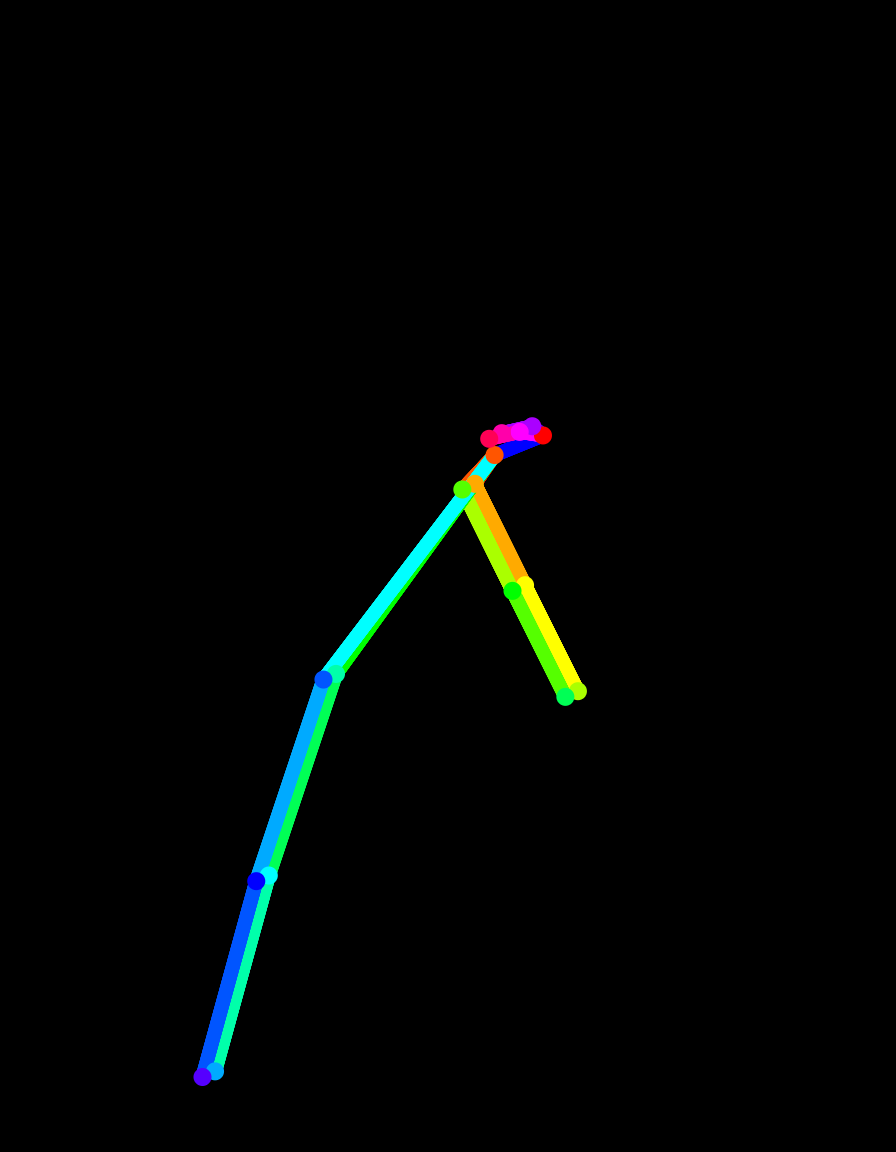
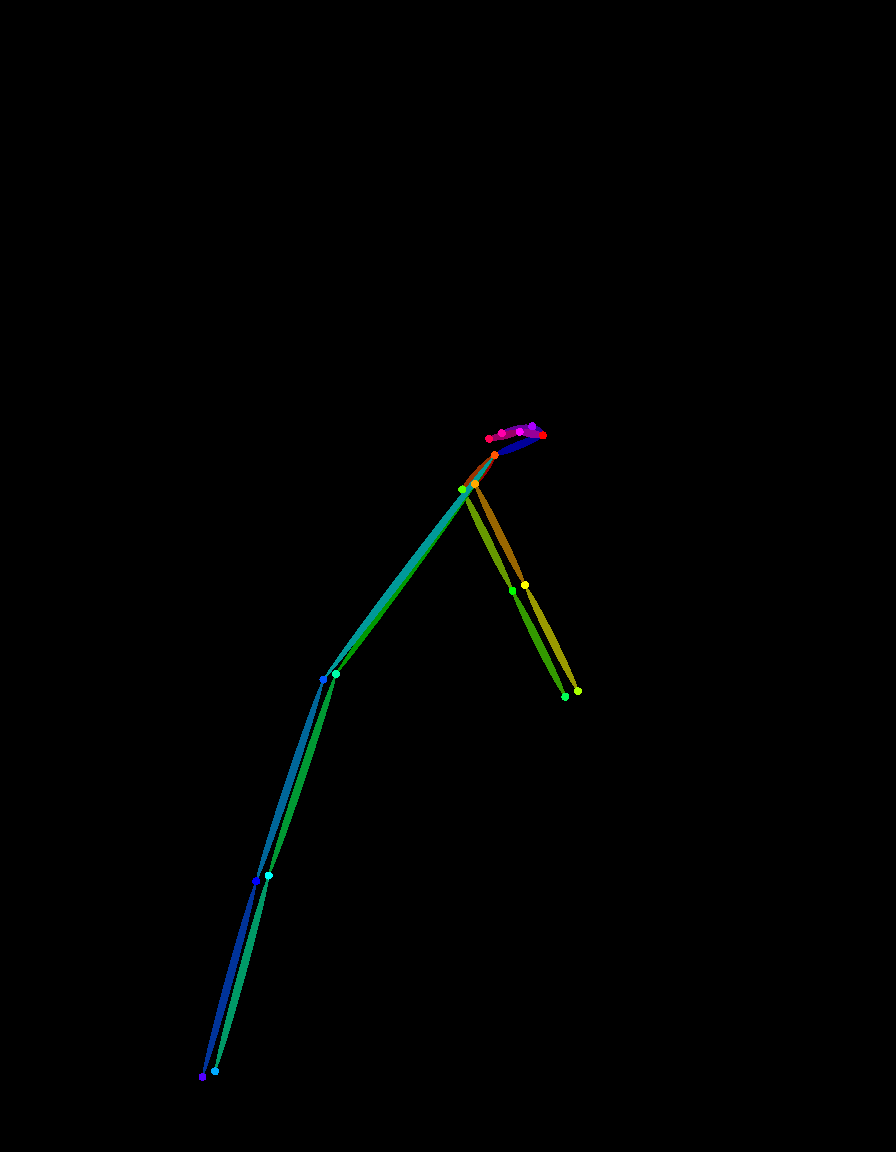
fix(poser): gjør skjelett-rendereren tro mot draw_bodypose
Autoresearch sammenlignet rendereren vår mot kanonisk draw_bodypose. Jeg
verifiserte mot kilden på kitor
(comfyui_controlnet_aux/src/custom_controlnet_aux/dwpose/util.py) — alle fire
avvikene stemte:

  Lemmebredde     stickwidth = 4 (8 px)   vi hadde 14 px    75 % bredere
  Lemmefarge      int(c * 0.6)            vi hadde 100 %    67 % lysere
  Leddradius      4                       vi hadde 9        2,25x
  Kanter          fillConvexPoly, aliasert  vi hadde AA     avvek

Verdiene var funnet på fordi de så ryddige ut. Kommentaren om at kantutjevning
gir «et stabilere signal» var ren spekulasjon — treningsdataene er aliaserte.

Konsekvensen er at de tre GPU-kjøringene i dag ikke kan tolkes: vi vet ikke om
vi målte OpenPose eller vår egen renderer. Konklusjonen «orientering er umulig
med skjeletter» kan være for tidlig.

Lemmer tegnes nå som roterte ELLIPSER, ikke kapsler med runde ender. Det er
ikke kosmetikk: ellipsen smalner mot endene, og et sterkt forkortet lem
degenererer nesten helt. Det gjengis bevisst — ControlNet er trent på
DWPose-utdata med samme egenskap, og armhevingens overarm er nettopp et slikt
lem.

stickwidth og leddradius er argumenter med kildens verdier som standard, ikke
konstanter.

Changed region(s): [[0.2188, 0.3438, 0.6562, 0.9375]]

diff --git a/scripts/__tests__/poseSkeleton.test.ts b/scripts/__tests__/poseSkeleton.test.ts
@@ -117,3 +117,71 @@ describe('encodePng', () => {
     expect(a.equals(b)).toBe(true);
   });
 });
+
+describe('Renderen er tro mot draw_bodypose', () => {
+  // Verifisert mot kilden på kitor:
+  // comfyui_controlnet_aux/src/custom_controlnet_aux/dwpose/util.py
+  //   stickwidth = 4, stick_scale = 1
+  //   fillConvexPoly(..., [int(float(c) * 0.6) for c in color])
+  //   cv2.circle(..., 4, color, thickness=-1)
+  //
+  // Første utkast brukte 7, 9, full lysstyrke og kantutjevning — tall jeg fant
+  // på. Da måler en test vår egen renderer, ikke ControlNet.
+
+  it('tegner lemmer på 60 prosent av leddfargen', () => {
+    const j: ([number, number] | null)[] = new Array(18).fill(null);
+    j[1] = [0.5, 0.30]; // nakke
+    j[2] = [0.5, 0.60]; // høyre skulder — lemme 0 mellom dem, farge [255,0,0]
+    const c = drawSkeleton(j);
+
+    // Midt på lemmet, godt unna leddsirklene i endene
+    const x = Math.round(0.5 * c.width);
+    const y = Math.round(0.45 * c.height);
+    const i = (y * c.width + x) * 3;
+    expect(c.data[i]).toBe(Math.trunc(255 * 0.6)); // 153, ikke 255
+  });
+
+  it('tegner ledd i full farge over lemmene', () => {
+    const j: ([number, number] | null)[] = new Array(18).fill(null);
+    j[1] = [0.5, 0.30];
+    j[2] = [0.5, 0.60];
+    const c = drawSkeleton(j);
+
+    const x = Math.round(0.5 * c.width);
+    const y = Math.round(0.3 * c.height);
+    const i = (y * c.width + x) * 3;
+    // Nakkens leddfarge er COLORS[1] = [255, 85, 0]. Poenget er at den er FULL:
+    // ved 60 % ville den vært [153, 51, 0].
+    expect([c.data[i], c.data[i + 1], c.data[i + 2]]).toEqual(COLORS[1]);
+  });
+
+  it('har harde kanter — ingen kantutjevning', () => {
+    // Treningsdataene er aliaserte (fillConvexPoly/circle uten AA). Myke kanter
+    // gir ControlNet et signal den ikke har sett.
+    const j: ([number, number] | null)[] = new Array(18).fill(null);
+    j[1] = [0.5, 0.30];
+    j[2] = [0.5, 0.60];
+    const c = drawSkeleton(j);
+
+    const nivåer = new Set<number>();
+    for (let k = 0; k < c.data.length; k += 3) nivåer.add(c.data[k]);
+    // Kun 0 (bakgrunn) og de diskrete fargeverdiene — ingen glidende overgang
+    expect(nivåer.size).toBeLessThan(12);
+  });
+
+  it('lar et sterkt forkortet lem degenerere, som ellipsen i kilden', () => {
+    // cv2.ellipse2Poly med halvakse length/2 kollapser når lemmet er kort.
+    // Vi gjengir det bevisst: ControlNet er trent på DWPose-utdata som har
+    // samme egenskap.
+    const kort: ([number, number] | null)[] = new Array(18).fill(null);
+    kort[1] = [0.5, 0.5];
+    kort[2] = [0.503, 0.5];
+    const lang: ([number, number] | null)[] = new Array(18).fill(null);
+    lang[1] = [0.5, 0.5];
+    lang[2] = [0.5, 0.75];
+
+    const tent = (c: { data: Uint8Array }) =>
+      c.data.reduce((n, v) => n + (v > 0 ? 1 : 0), 0);
+    expect(tent(drawSkeleton(kort))).toBeLessThan(tent(drawSkeleton(lang)));
+  });
+});
